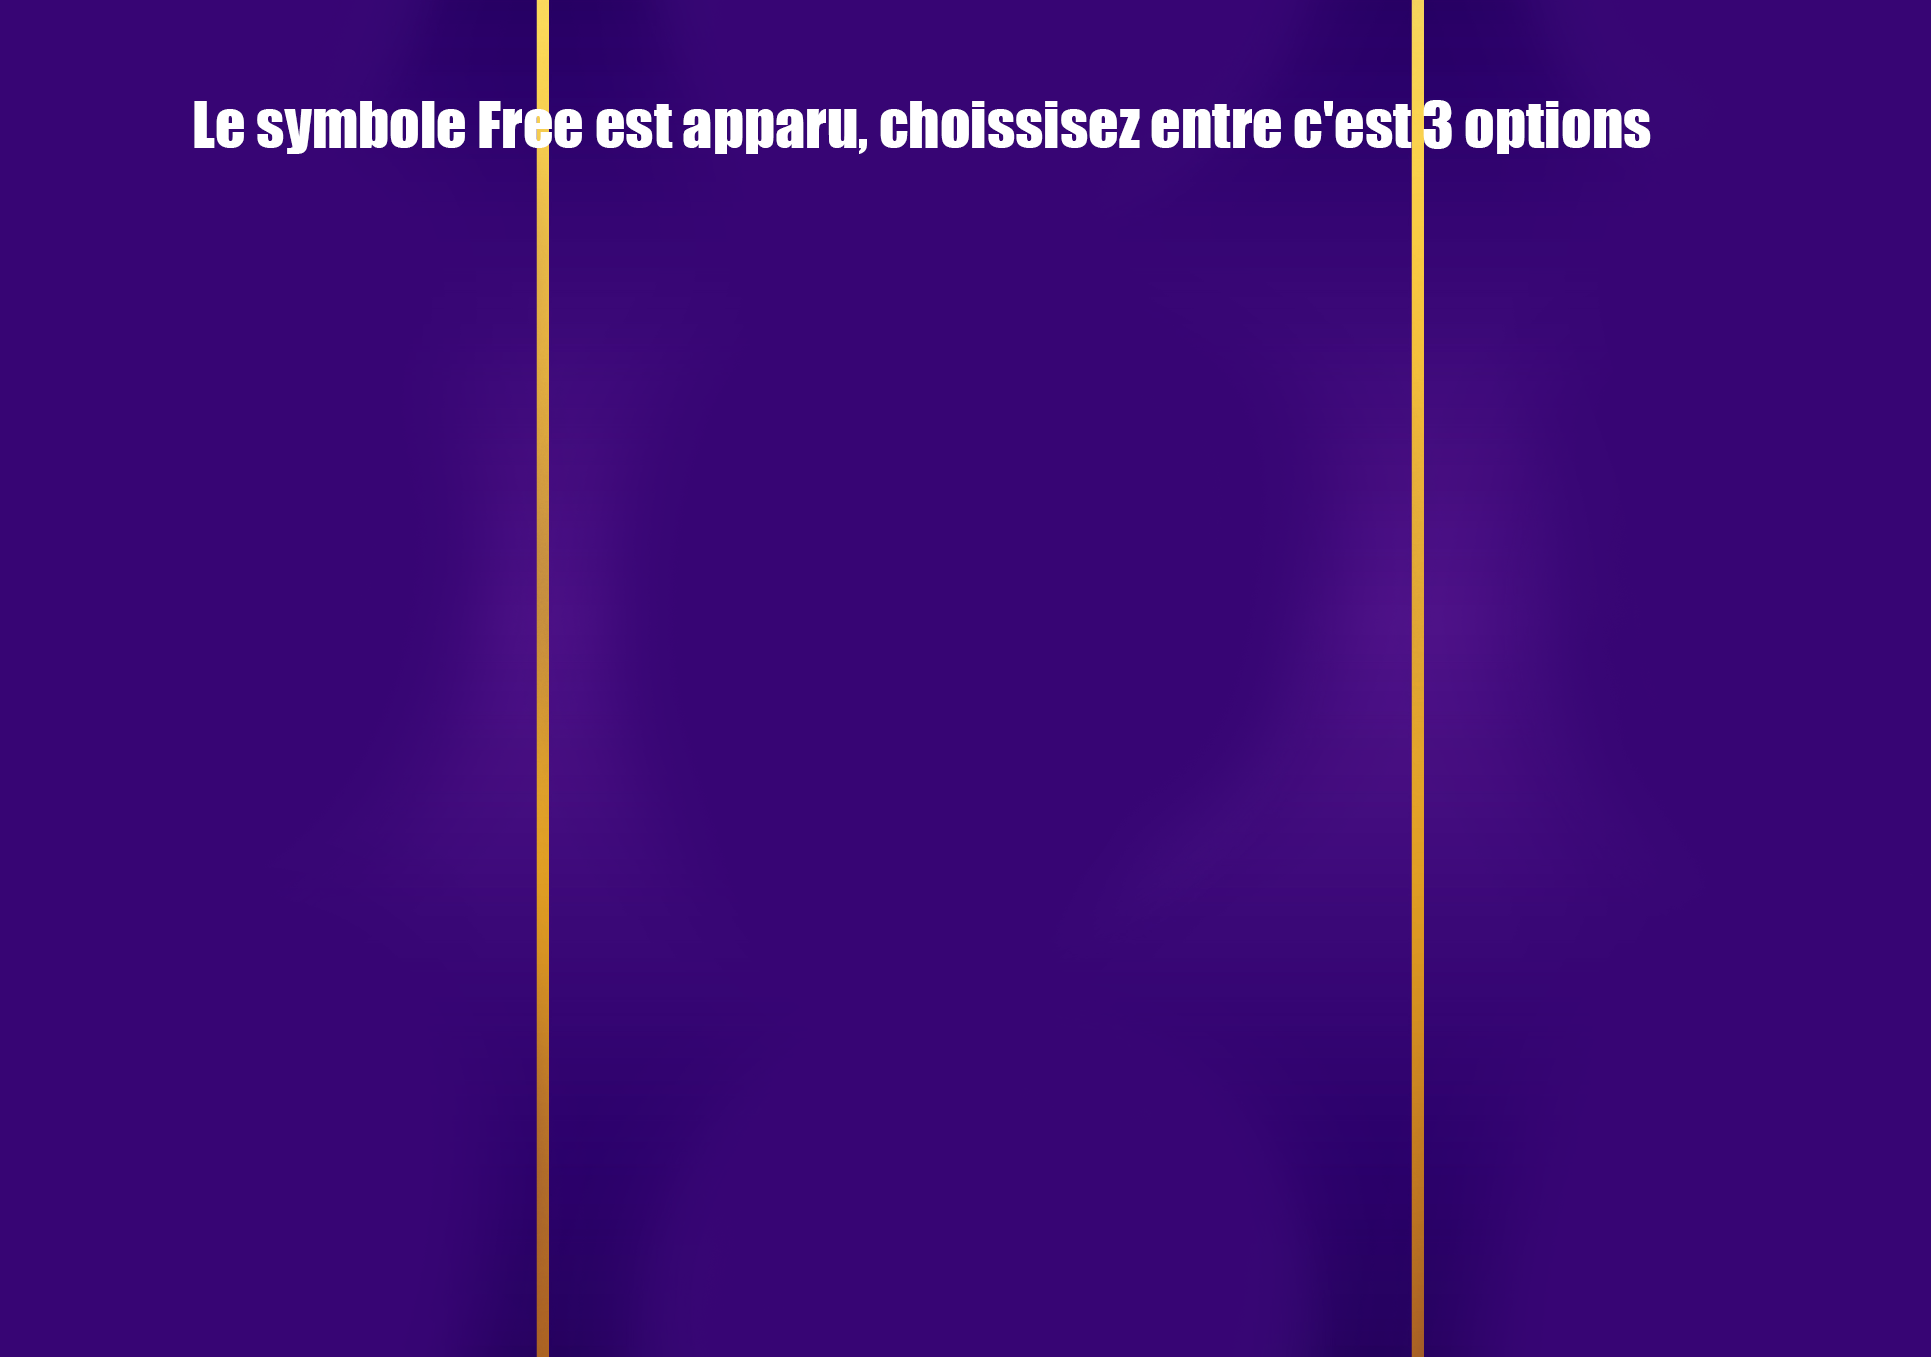
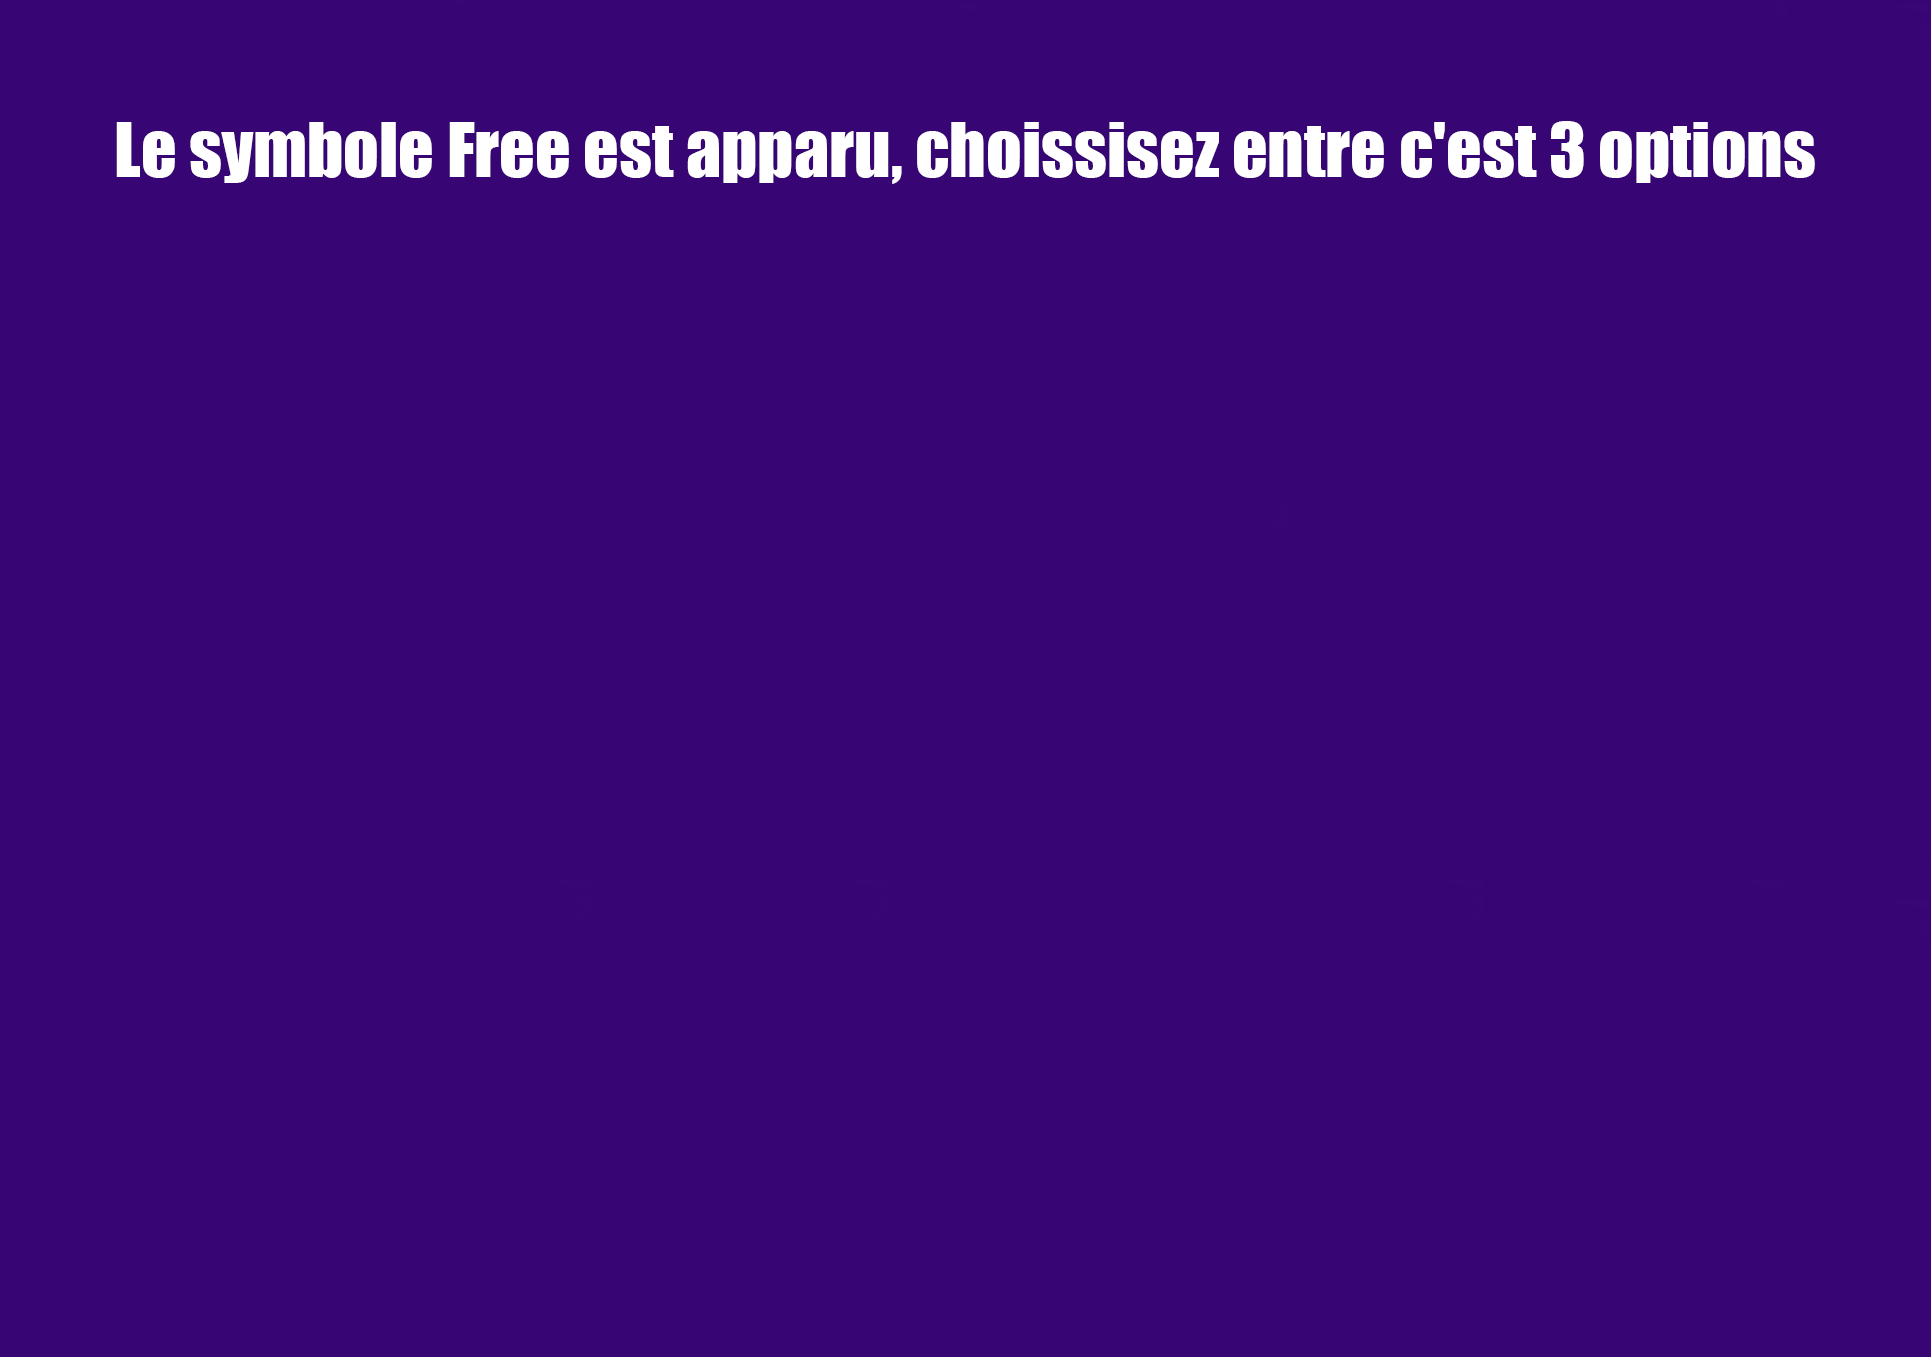
modify freeAttempt

Changed region(s): [[0.0621, 0.0, 0.9632, 1.0]]

diff --git a/SlotMachine/src/main/java/SlotMachine/SlotMachineGUI.java b/SlotMachine/src/main/java/SlotMachine/SlotMachineGUI.java
@@ -104,7 +104,7 @@ public class SlotMachineGUI {
         frame.add(mainPanel);
 
 
-        //showFreeAttemptMenu(mainUser, frame);
+        showFreeAttemptMenu(mainUser, frame);
 
         createLabelToDisplayUserMoney(mainUser, mainPanel);
 
@@ -273,14 +273,14 @@ public class SlotMachineGUI {
 
         ImageIcon twoIcon = new ImageIcon(SlotMachineGUI.class.getResource(TWO_IMAGE_PATH));
         JButton twoButton = new JButton(twoIcon);
-        constraints.gridx = 1;
-        constraints.gridy = 0;
+        constraints.gridx = 0;
+        constraints.gridy = 1;
         panel.add(twoButton, constraints);
 
         ImageIcon threeIcon = new ImageIcon(SlotMachineGUI.class.getResource(THREE_IMAGE_PATH));
         JButton threeButton = new JButton(threeIcon);
-        constraints.gridx = 2;
-        constraints.gridy = 0;
+        constraints.gridx = 0;
+        constraints.gridy = 2;
         panel.add(threeButton, constraints);
 
         // Ajoutez les ActionListener pour gérer les événements de clic
